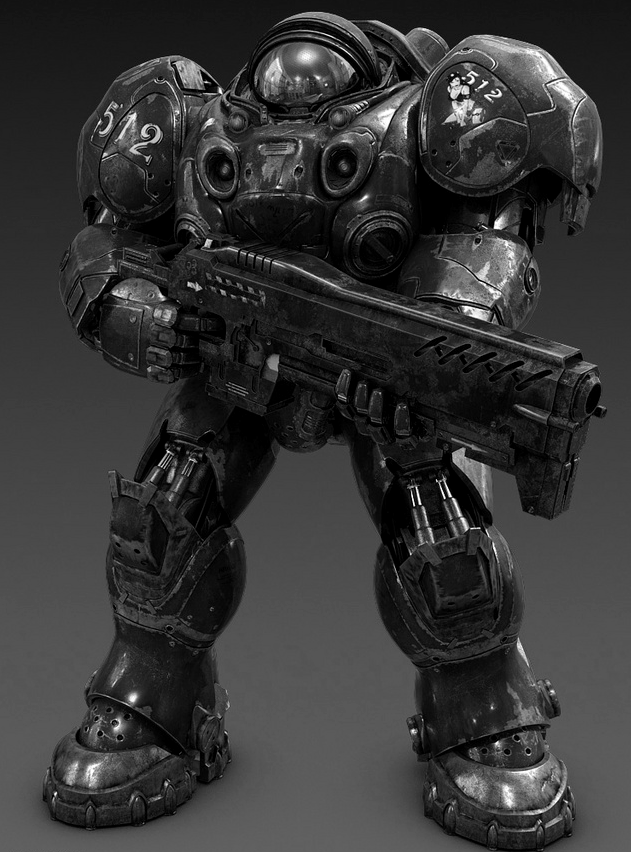
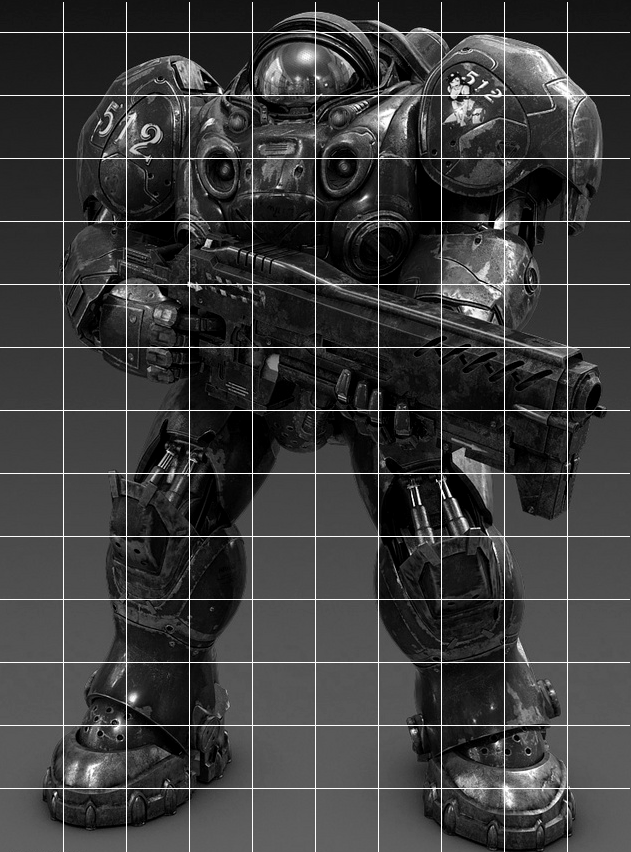
Simple Grid

diff --git a/Crafts/src/Grid/grid.cpp b/Crafts/src/Grid/grid.cpp
@@ -30,7 +30,28 @@ namespace crafts {
 
 	void Grid::applySimpleGrid()
 	{
+		RGBQUAD color;
+		color.rgbRed = 255;
+		color.rgbGreen = 255;
+		color.rgbBlue = 255;
+
+		int width = FreeImage_GetWidth(image);
+		int height = FreeImage_GetHeight(image);
+
+		width = (width / 10) * 10;
+		height = (height / 10) * 10;
+
+		int divisor = gcd(width, height);
+		int boxLength = std::min((width / divisor), (height / divisor));
 		
+		for (int i = 0; i < width; i++)
+			for (int j = boxLength; j < height; j += boxLength)
+				FreeImage_SetPixelColor(image, i, j, &color);
+
+		for (int i = boxLength; i < width; i += boxLength)
+			for (int j = 0; j < height; j++)
+				FreeImage_SetPixelColor(image, i, j, &color);
+
 	}
 
 }

diff --git a/Crafts/src/Utils/math.cpp b/Crafts/src/Utils/math.cpp
@@ -1,0 +1,13 @@
+#include "math.h"
+
+namespace crafts {
+
+	int gcd(int a, int b)
+	{
+		if (b == 0)
+			return a;
+		a %= b;
+		return gcd(b, a);
+	}
+
+}

diff --git a/Crafts/src/Grid/grid.h b/Crafts/src/Grid/grid.h
@@ -1,7 +1,10 @@
 #pragma once
 
 #include <iostream>
+#include <algorithm>
 #include <FreeImage.h>
+
+#include "../Utils/math.h"
 
 namespace crafts {
 

diff --git a/Crafts/src/main.cpp b/Crafts/src/main.cpp
@@ -1,6 +1,6 @@
 #include <iostream>
 
-#include "Grid\grid.h"
+#include "Grid/grid.h"
 
 using namespace crafts;
 

diff --git a/Crafts/src/Utils/math.h b/Crafts/src/Utils/math.h
@@ -1,0 +1,7 @@
+#pragma once
+
+namespace crafts { 
+
+	int gcd(int a, int b);
+
+}
